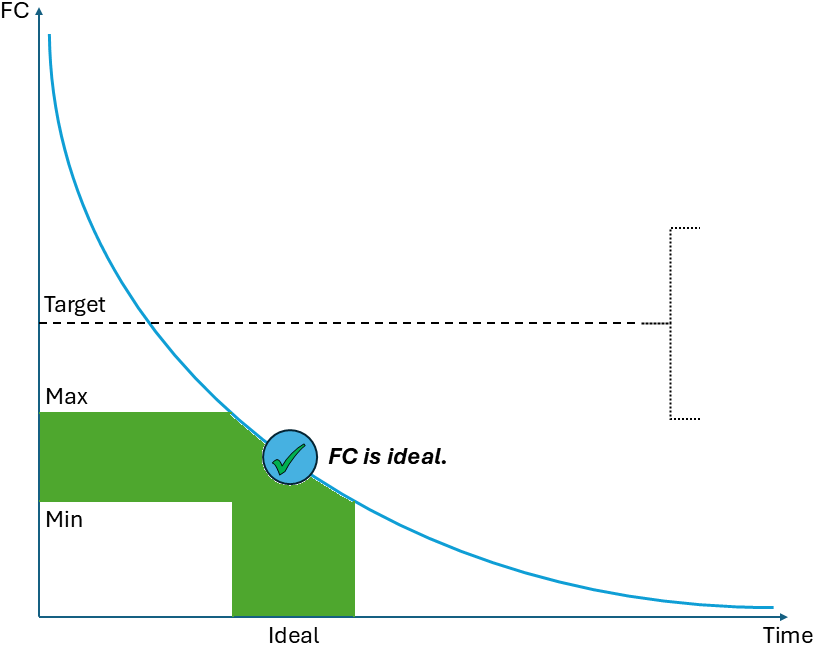
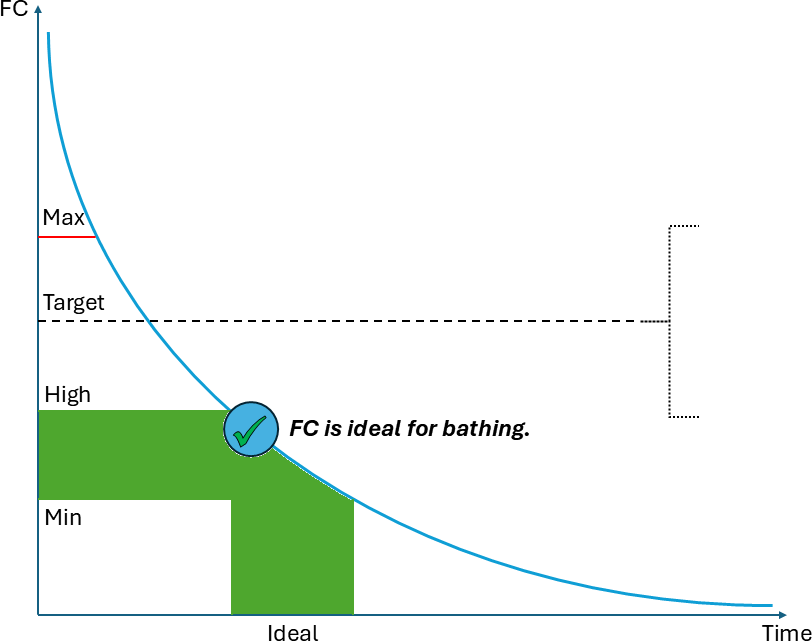
Added Max (SLAM level) value to Predicted FC chart.

diff --git a/index.js b/index.js
@@ -75,7 +75,8 @@ numVars['fcTargetOld'] = 5; // Store old value for comparison
 numVars['addDichlor'] = 0;
 numVars['fcAddBleach'] = 0;
 numVars['fcMin'] = 3;
-numVars['fcMax'] = 5;
+numVars['fcHigh'] = 5;
+numVars['fcSlamTarget'] = 10; // Same as FC Max
 
 /* CC */
 numVars['ccLastValue'] = 0;
@@ -208,62 +209,48 @@ function init() {
     if (numVars['caPrediction'] < 0) {
         numVars['caPrediction'] = 0;
     }
-    if (numVars['caPrediction'] > 90) {
-        numVars['fcMin'] = 11;
-        numVars['fcMax'] = 13;
+
+    numVars['fcSlamTarget'] = Number((Number(numVars['caPrediction']) * 0.4).toFixed(0)); // SLAM Target and Max FC based on CYA
+    if (numVars['fcSlamTarget'] < 10) {
+        numVars['fcSlamTarget'] = 10;
+    }
+    if (numVars['fcSlamTarget'] > 39) {
         numVars['fcSlamTarget'] = 39;
-    } else {
-        if (numVars['caPrediction'] > 80) {
-            numVars['fcMin'] = 10;
-            numVars['fcMax'] = 12;
-            numVars['fcSlamTarget'] = 35;
-        } else {
-            if (numVars['caPrediction'] > 70) {
-                numVars['fcMin'] = 9;
-                numVars['fcMax'] = 11;
-                numVars['fcSlamTarget'] = 31;
-            } else {
-                if (numVars['caPrediction'] > 60) {
-                    numVars['fcMin'] = 8;
-                    numVars['fcMax'] = 10;
-                    numVars['fcSlamTarget'] = 28;
-                } else {
-                    if (numVars['caPrediction'] > 50) {
-                        numVars['fcMin'] = 7;
-                        numVars['fcMax'] = 9;
-                        numVars['fcSlamTarget'] = 24;
-                    } else {
-                        if (numVars['caPrediction'] > 40) {
-                            numVars['fcMin'] = 6;
-                            numVars['fcMax'] = 8;
-                            numVars['fcSlamTarget'] = 20;
-                        } else {
-                            if (numVars['caPrediction'] > 30) {
-                                numVars['fcMin'] = 5;
-                                numVars['fcMax'] = 7;
-                                numVars['fcSlamTarget'] = 16;
-                            } else {
-                                if (numVars['caPrediction'] > 20) {
-                                    numVars['fcMin'] = 4;
-                                    numVars['fcMax'] = 6;
-                                    numVars['fcSlamTarget'] = 12;
-                                } else {
-                                    numVars['fcMin'] = 3;
-                                    numVars['fcMax'] = 5;
-                                    numVars['fcSlamTarget'] = 10;
-                                }
-                            }
-                        }
-                    }
-                }
-            }
-        }
     }
 
-    // Ensure Target FC is >= new FC Max value based on CYA
+    if (numVars['caPrediction'] > 90) {
+        numVars['fcMin'] = 11;
+        numVars['fcHigh'] = 13;
+    } else if (numVars['caPrediction'] > 80) {
+        numVars['fcMin'] = 10;
+        numVars['fcHigh'] = 12;
+    } else if (numVars['caPrediction'] > 70) {
+        numVars['fcMin'] = 9;
+        numVars['fcHigh'] = 11;
+    } else if (numVars['caPrediction'] > 60) {
+        numVars['fcMin'] = 8;
+        numVars['fcHigh'] = 10;
+    } else if (numVars['caPrediction'] > 50) {
+        numVars['fcMin'] = 7;
+        numVars['fcHigh'] = 9;
+    } else if (numVars['caPrediction'] > 40) {
+        numVars['fcMin'] = 6;
+        numVars['fcHigh'] = 8;
+    } else if (numVars['caPrediction'] > 30) {
+        numVars['fcMin'] = 5;
+        numVars['fcHigh'] = 7;
+    } else if (numVars['caPrediction'] > 20) {
+        numVars['fcMin'] = 4;
+        numVars['fcHigh'] = 6;
+    } else {
+        numVars['fcMin'] = 3;
+        numVars['fcHigh'] = 5;
+    }
+
+    // Ensure Target FC is >= new FC High value based on CYA
     if (textVars['fcTargetText'] == ADJUST_FC_TEXT) {
-        if (numVars['fcTarget'] < numVars['fcMax']) {
-            numVars['fcTarget'] = numVars['fcMax'];
+        if (numVars['fcTarget'] < numVars['fcHigh']) {
+            numVars['fcTarget'] = numVars['fcHigh'];
             numVars['fcTargetOld'] = numVars['fcTarget']; // Store old value for comparison
             localStorage.setItem("fcTargetOld", numVars['fcTargetOld']);
         }
@@ -272,18 +259,26 @@ function init() {
     }
     localStorage.setItem("fcTarget", numVars['fcTarget']);
 
+    if (numVars['fcTarget'] > numVars['fcSlamTarget']) {
+        document.getElementById("fcTarget").style.color = "red";
+    } else {
+        document.getElementById("fcTarget").style.color = "black";
+    }
+
     /* FC - Current Prediction */
     // N(t) = N0 * e^(-kt)
     nMilliseconds = numVars['fcModifiedDaysAgo'] * ONE_DAY; // milliseconds since last test
     numVars['fcPrediction'] = numVars['fcLastValue'] * Math.exp(-numVars['fcDecayK'] * nMilliseconds);
-    if (Number(numVars['fcPrediction']).toFixed(1) > numVars['fcTarget']) {
-        document.getElementById("fc_chart").src="./images/fc_high.png";
-    } else if (Number(numVars['fcPrediction']).toFixed(1) > numVars['fcMax']) {
+    if (Number(numVars['fcPrediction']).toFixed(1) > Number(numVars['fcSlamTarget']) ) {
+        document.getElementById("fc_chart").src="./images/fc_too_high.png";
+    } else if (Number(numVars['fcPrediction']).toFixed(1) > Number(numVars['fcTarget']) ) {
+        document.getElementById("fc_chart").src="./images/fc_max.png";
+    } else if (Number(numVars['fcPrediction']).toFixed(1) > Number(numVars['fcHigh']) ) {
         document.getElementById("fc_chart").src="./images/fc_target.png";
-    } else if (Number(numVars['fcPrediction']).toFixed(1) >= numVars['fcMin']) {
+    } else if (Number(numVars['fcPrediction']).toFixed(1) >= Number(numVars['fcMin']) ) {
         document.getElementById("fc_chart").src="./images/fc_ideal.png";
     } else {
-        document.getElementById("fc_chart").src="./images/fc_low.png";
+        document.getElementById("fc_chart").src="./images/fc_too_low.png";
     }
     
     // FC - Ideal Start and End Dates
@@ -292,7 +287,7 @@ function init() {
     let dateStartIdeal = new Date();
     let dateEndIdeal = new Date();
     if (Number(numVars['fcLastValue']) > 0) {
-        dateStartIdeal = new Date(dateLastModified.getTime() + Math.log(numVars['fcMax'] / numVars['fcLastValue']) / -numVars['fcDecayK']);
+        dateStartIdeal = new Date(dateLastModified.getTime() + Math.log(numVars['fcHigh'] / numVars['fcLastValue']) / -numVars['fcDecayK']);
         dateEndIdeal = new Date(dateLastModified.getTime() + Math.log(numVars['fcMin'] / numVars['fcLastValue']) / -numVars['fcDecayK']);
     } 
     textVars['fcStartIdeal'] = dateStartIdeal.toLocaleString([], { month: '2-digit', day: '2-digit', hour: '2-digit', minute: '2-digit' });
@@ -313,7 +308,7 @@ function init() {
     
     // FC - TARGET - Start and End Dates
     // ln(N(t) / N0) / -k = t
-    let dateTargetStartIdeal = new Date(date.getTime() + Math.log(numVars['fcMax'] / numVars['fcTarget']) / -numVars['fcDecayK']);
+    let dateTargetStartIdeal = new Date(date.getTime() + Math.log(numVars['fcHigh'] / numVars['fcTarget']) / -numVars['fcDecayK']);
     let dateTargetEndIdeal = new Date(date.getTime() + Math.log(numVars['fcMin'] / numVars['fcTarget']) / -numVars['fcDecayK']);
     textVars['fcTargetStartIdeal'] = dateTargetStartIdeal.toLocaleString([], { month: '2-digit', day: '2-digit'}) + ' ' + (dateTargetStartIdeal.getHours() >= 12 ? 'PM' : 'AM'); //hour: '2-digit', minute: '2-digit' 
     textVars['fcTargetEndIdeal'] = dateTargetEndIdeal.toLocaleString([], { month: '2-digit', day: '2-digit'}) + ' ' + (dateTargetEndIdeal.getHours() >= 12 ? 'PM' : 'AM'); //hour: '2-digit', minute: '2-digit'
@@ -513,7 +508,7 @@ function updateTest(sPrefix/*, sDaysAgoLimitId = false*/) {
             let dateLastModified = new Date(dateVars['fcLastModifiedDate']);
             let t = date.getTime() - dateLastModified.getTime(); //milliseconds since last test
             let N_t = newValue;
-            let N_0 = numVars['fcLastValue']; // + numVars['fcAdded'];
+            let N_0 = numVars['fcLastValue']; 
             let k = Math.log(N_0 / N_t) / t;
             let halfLife = Math.log(2) / k / ONE_DAY; // in days
             numVars['fcDecayK'] = k;
@@ -856,8 +851,8 @@ function editChemStrength(sChemicalStrengthId) {
 
 function fcTargetAdjust(delta) {
     numVars['fcTarget'] = numVars['fcTarget'] + delta;
-    if (numVars['fcTarget'] < numVars['fcMax']) {
-        numVars['fcTarget'] = numVars['fcMax'];
+    if (numVars['fcTarget'] < numVars['fcHigh']) {
+        numVars['fcTarget'] = numVars['fcHigh'];
     }
     if (numVars['fcTarget'] > 70) {
         numVars['fcTarget'] = 70;
@@ -876,7 +871,7 @@ function editFcTarget() {
     let target = prompt("Please enter new Target FC.", numVars['fcTarget']);
     if (target) {
         target = parseInt(target);
-        if (target >= numVars['fcMax'] && target <= 70) {
+        if (target >= numVars['fcHigh'] && target <= 70) {
             numVars['fcTarget'] = target;
             textVars['fcTargetText'] = ADJUST_FC_TEXT;
             localStorage.setItem('fcTargetText', textVars['fcTargetText']);
@@ -886,7 +881,7 @@ function editFcTarget() {
             refresh();
         }
         else {
-            alert('Please enter a number between ' + numVars['fcMax'] + ' and 70.');
+            alert('Please enter a number between ' + numVars['fcHigh'] + ' and 70.');
         }
     }
 }

diff --git a/index.html b/index.html
@@ -34,12 +34,13 @@
   </dialog>
   
   <div class="fc-container">
-    <img id="fc_chart" src="./images/fc_high.png" alt="FC Chart" width="400">
+    <img id="fc_chart" src="./images/fc_too_high.png" alt="FC Chart" width="400">
     <button class="fc-target-up symbols center" onclick="fcTargetAdjust(+1)">&uarr;</button>
     <button class="fc-target-edit symbols center" onclick="editFcTarget()">&#x270E</button>
     <button class="fc-target-down symbols center" onclick="fcTargetAdjust(-1)">&darr;</button>
+    <span class="fc-max numDisplays" id="fcSlamTarget"></span>
     <b class="fc-target numDisplays0" id="fcTarget"></b>
-    <span class="fc-max numDisplays" id="fcMax"></span>
+    <span class="fc-high numDisplays" id="fcHigh"></span>
     <span class="fc-min numDisplays" id="fcMin"></span>
     <span class="textDisplays units fc-target-text" id="fcTargetText"></span>
     <button class="question fc-target-question" onclick="showDialog('fcTargetDialog')">?</button>

diff --git a/styles.css b/styles.css
@@ -245,21 +245,27 @@ footer {
   left: 70px;
 }
 
-.fc-target {
+.fc-max {
   position: absolute;
-  top: 150px;
+  top: 107px;
   right: 382px;
 }
 
-.fc-max {
+.fc-target {
   position: absolute;
-  top: 195px;
+  top: 148px;
+  right: 382px;
+}
+
+.fc-high {
+  position: absolute;
+  top: 193px;
   right: 382px;
 }
 
 .fc-min {
   position: absolute;
-  top: 238px;
+  top: 235px;
   right: 382px;
 }
 
